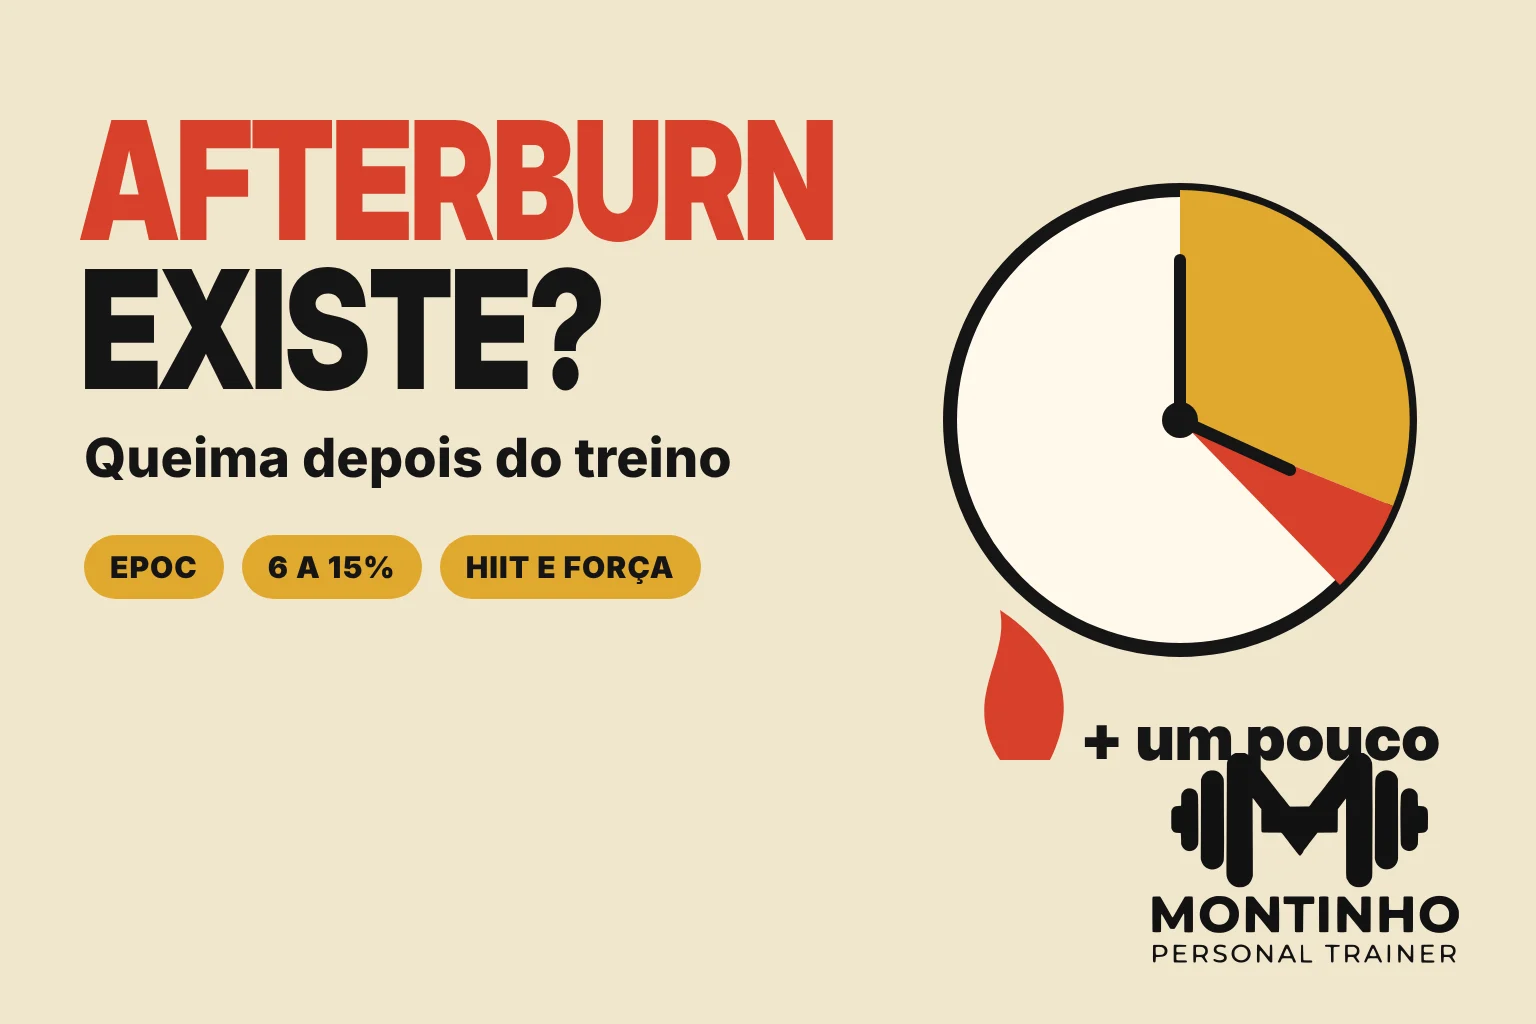
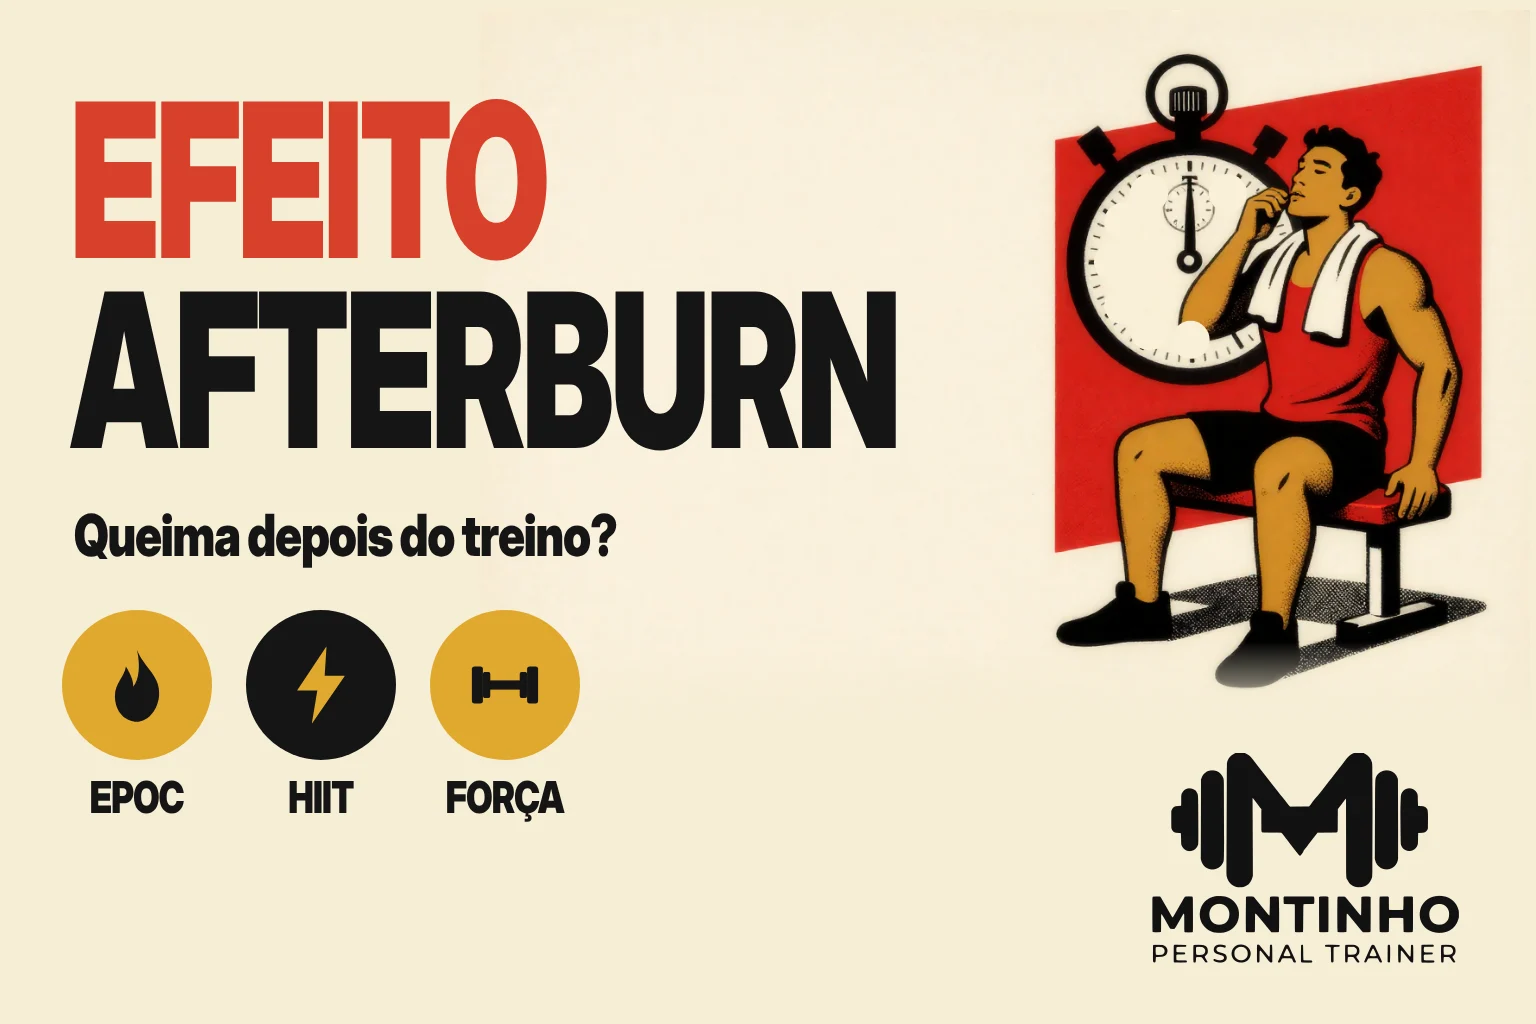
Efeito afterburn: capa nova no padrão das outras (ilustração, letra condensada e ícones) (#1108)
Claude-Session: https://claude.ai/code/session_01FouRqAub4iiTyoNafYmiNy

diff --git a/lib/efeito-afterburn.ts b/lib/efeito-afterburn.ts
@@ -81,7 +81,7 @@ export const EFEITO_AFTERBURN_POSTS: BlogPost[] = [
           "Tem, como qualquer exercício. Uma corrida leve gera pouco; tiros e corridas longas em ritmo forte geram mais. Mesmo assim, o grosso das calorias da corrida é gasto enquanto você corre.",
       },
     ],
-    content: `<img src="/blog-images/efeito-afterburn-epoc-capa.webp" alt="Capa: Afterburn existe? Queima depois do treino. Ilustração de um relógio com uma fatia pequena destacada e uma chama" title="Efeito Afterburn (EPOC) — Montinho Personal Trainer" width="1536" height="1024" loading="eager" decoding="async" style="width:100%;height:auto;border-radius:8px;"/>
+    content: `<img src="/blog-images/efeito-afterburn-epoc-capa.webp" alt="Capa: Efeito afterburn. Queima depois do treino? Ilustração de um homem sentado no banco depois do treino, com toalha no ombro e um cronômetro ao fundo" title="Efeito Afterburn (EPOC) — Montinho Personal Trainer" width="1536" height="1024" loading="eager" decoding="async" style="width:100%;height:auto;border-radius:8px;"/>
 
 <p>O <strong>efeito afterburn</strong> é a promessa de que o corpo continua queimando calorias depois que o treino acaba. Ele existe. O problema é o tamanho que o marketing dá a ele: "queima por 48 horas", "emagrece mesmo parado". Os estudos mostram um bônus real, mas pequeno, e é isso que vale saber antes de escolher treino por causa dele.</p>
 
